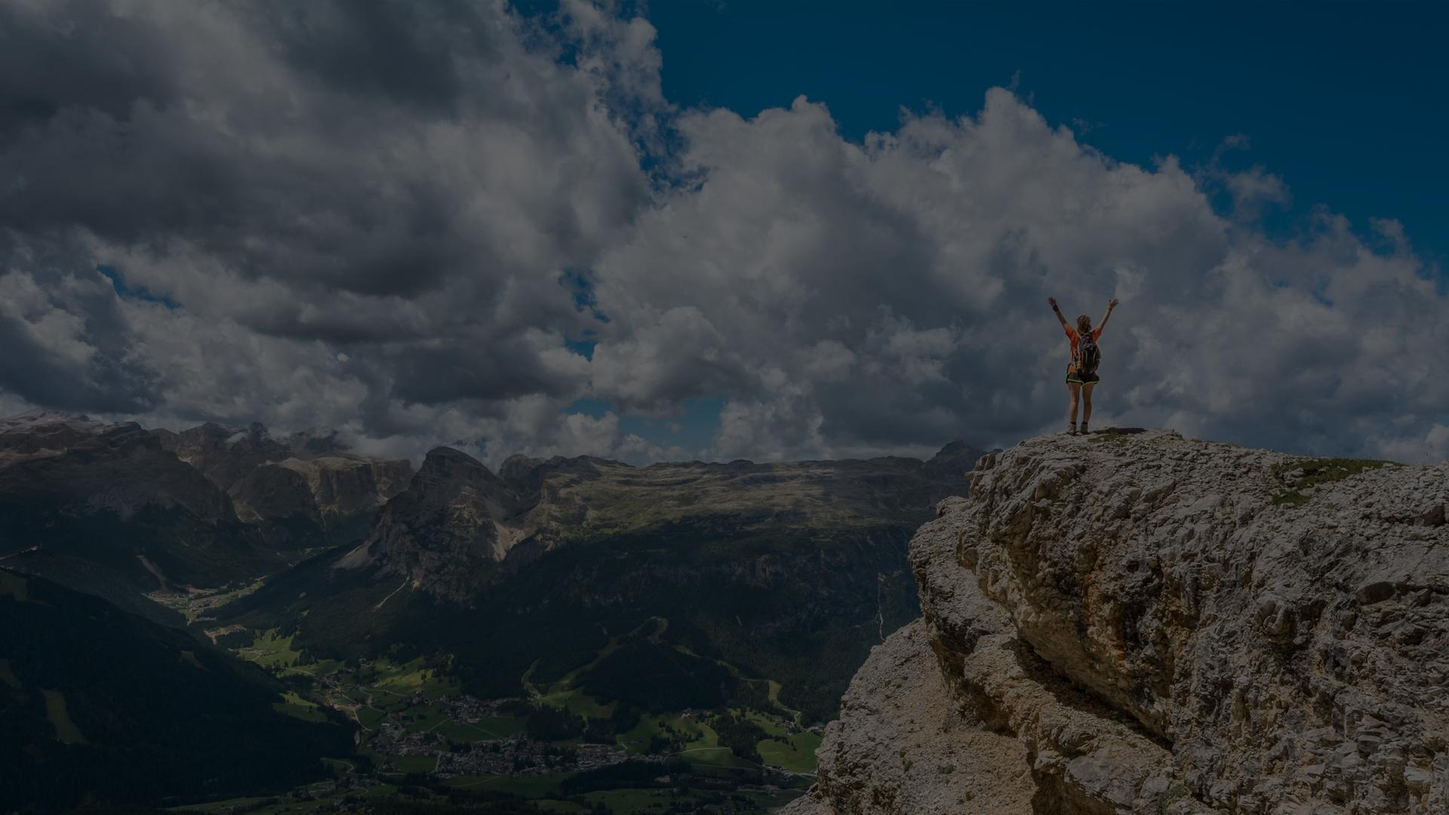
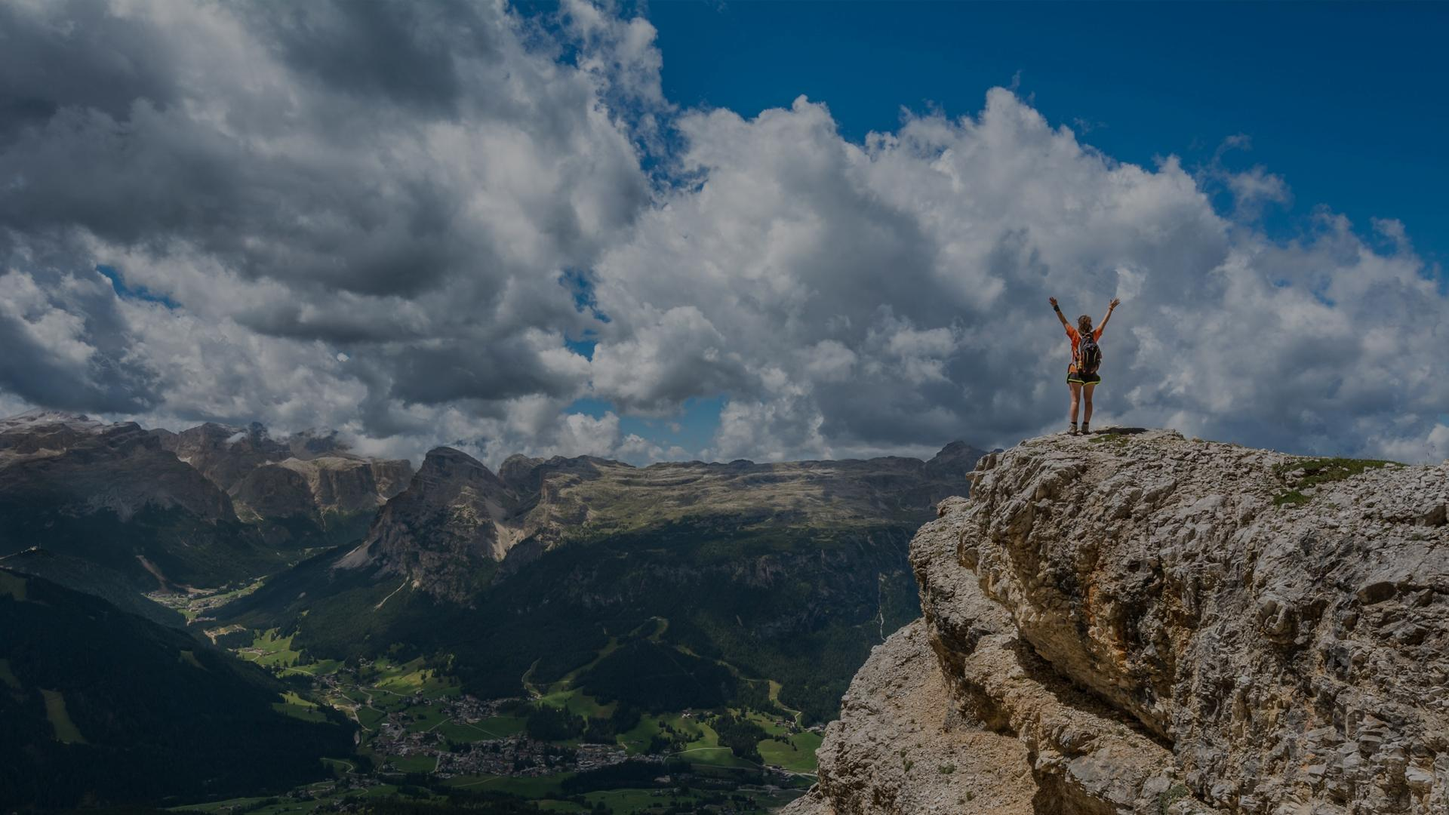
I deleted some necessary files and change header background file

diff --git a/css/seal.css b/css/seal.css
@@ -1,1 +1,1 @@
-@keyframes header__arrow-animation{0%{transform:translateY(0px)}50%{transform:translateY(10px)}100%{transform:translateY(0px)}}body{font-family:'Source Sans Pro', sans-serif;font-size:17px;letter-spacing:0.1em;color:#424242}.wrapper{overflow:hidden}s .row{margin-left:0;margin-right:0}.container-fluid{padding-left:0;padding-right:0;margin:0}html{scroll-behavior:smooth}a{color:#2d5294;text-decoration:none}a:hover{color:#134191;text-decoration:none}a:visited{color:#2d5294;text-decoration:none}.navbar{font-size:1.2em;text-transform:uppercase}.hamburger{padding:10px;cursor:pointer;background-color:transparent;border:0;margin:0;transition:all 0.5s ease-in-out}.hamburger--active{transform:translateX(-240px)}.hamburger__box{width:40px;height:24px;display:inline-block;position:relative;background-color:transparent}.hamburger__inner{width:100%;height:3px;background-color:#fff;position:absolute;left:0;top:50%;transform:translateY(-50%);transition:background-color .1s .1s ease-in-out}.hamburger__inner::before,.hamburger__inner::after{width:100%;height:3px;background-color:#fff;position:absolute;content:'';left:0;transition:transform .1s .1s ease-in-out}.hamburger__inner::before{top:-10px}.hamburger__inner::after{top:10px}.hamburger--active .hamburger__inner{background-color:transparent}.hamburger--active .hamburger__inner:before{transform:translateY(10px) rotate(45deg)}.hamburger--active .hamburger__inner:after{transform:translateY(-10px) rotate(-45deg)}main{overflow:hidden}.single-page .single-page-content{padding-top:100px}section{margin-bottom:50px;padding-bottom:50px}section .section-title{position:relative;width:100%;display:flex;justify-content:center;padding-top:50px;text-transform:uppercase;margin-bottom:100px}section .section-title h2{font-weight:700;font-size:2.1em}section .section-title--alternative{color:#fffffF}section .section-title::after{content:' ';position:absolute;background:#6ac04d;bottom:-10px;left:calc(50% - 75px);width:150px;height:4px;margin:auto}section:last-child{margin-bottom:0}.triangle-left-side{position:absolute;width:0;height:0;border-top:600px solid transparent;border-left:750px solid #eadcc9;border-bottom:600px solid transparent;left:-1000px;transition-duration:1500ms}.triangle-right-side{position:absolute;width:0;height:0;border-top:600px solid transparent;border-right:750px solid #eadcc9;border-bottom:600px solid transparent;top:50px;right:-1000px;transition-duration:1500ms}.traingle-left-visible{left:0}.traingle-right-visible{right:0}.pagination{font-weight:bold;margin-bottom:30px}.pagination__left{text-align:left}.pagination__right{text-align:right}@media (min-width: 320px){.posts-list{padding-top:25px}.post{margin:25px 0}.post .post__thumbnail img{max-width:100%;height:auto;border:1px solid grey}.post .post__title{margin-top:10px;font-weight:bold}.post__btn__more{font-weight:bold;text-transform:uppercase}.post-full{display:flex;flex-direction:column;margin-top:50px;min-height:500px}.btn--blue{color:#2d5294;border:2px solid #2d5294;background-color:none;text-decoration:none;padding:10px 30px;text-transform:uppercase;border-radius:2px;letter-spacing:0.15em;transition-duration:0.5s;font-weight:bold;font-size:1.2em}.btn--blue:hover{text-decoration:none;-webkit-transform:scale(1.1);-ms-transform:scale(1.1);transform:scale(1.1)}.btn--white{width:auto;border:1px solid #ffffff;border-radius:10px;color:#ffffff;background-color:rgba(255,255,255,0.1);padding:15px 30px;margin:20px 0;text-decoration:none;text-transform:uppercase;letter-spacing:.15em;transition-duration:0.5s}.btn--white:visited{color:#fff}.btn--white:hover{cursor:pointer;-webkit-transform:scale(1.1);-ms-transform:scale(1.1);transform:scale(1.1)}.btn--partner{width:100%;height:100%;border:none;color:#ffffff;background-color:#747474;font-size:1.2em;text-decoration:none;text-transform:uppercase;letter-spacing:.15em;transition-duration:500ms}.btn--partner:hover{font-size:1.3em}.header{position:relative;z-index:1;height:100vh;background-image:url("../img/seal-new-header.jpg");color:#fffffF}.header .header__nav{position:absolute;z-index:2;padding:5px 10px;display:flex;justify-content:space-between;width:100%;font-size:1.4em}.header .header__nav .header__nav__logo .header__nav__logo__image{max-width:100px;transition:all 0.5s ease-in-out}.header .header__nav .header__nav__logo .header__nav__logo__image--hidden{visibility:hidden}.header .header__nav .header__nav__items{display:flex;justify-content:center;align-items:center}.header .header__nav .header__nav__items .header__nav__items__mobile .header__nav__items__mobile__item{position:absolute;display:flex;justify-content:center;align-items:center;top:0;right:0;padding:25px 0;width:250px;min-height:100vh;background-color:yellowgreen;transform:translateX(250px);transition:all 0.5s ease-in-out}.header .header__nav .header__nav__items .header__nav__items__mobile .header__nav__items__mobile__item .menu{display:flex;flex-direction:column;justify-content:center;align-items:center;top:20px;list-style:none;padding:0}.header .header__nav .header__nav__items .header__nav__items__mobile .header__nav__items__mobile__item .menu .menu-item{width:75%;display:flex;justify-content:center;align-items:center;margin-bottom:10px}.header .header__nav .header__nav__items .header__nav__items__mobile .header__nav__items__mobile__item--active{transform:translateX(0)}.header .header__nav .header__nav__items .header__nav__items__desktop{display:none}.header .header__hero{position:relative;top:100px}.header .header__hero .header__hero__content .header__hero__content__title{font-weight:bold;font-size:1.6em;text-align:center}.header .header__hero .header__hero__content .header__hero__content__slogan{padding:0 10px;font-size:1.1em;text-align:center}.header .header__hero .header__hero__content .header__hero__content__btn-area{margin-top:30px;display:flex;justify-content:center;align-items:center}.header .header__hero .header__hero__content .header__hero__content__btn-area .header__hero__content__btn-area__btn{color:#fffffF;background:none;border:1px solid #fffffF;text-transform:uppercase;padding:10px 30px;letter-spacing:0.5em;transition-duration:0.3s}.header .header__hero .header__hero__content .header__hero__content__btn-area .header__hero__content__btn-area__btn:hover{transform:scale(1.1)}.header .header__hero .header__hero__content .header__hero__content__arrow{display:none;margin-top:40px}.header .header__hero .header__hero__content .header__hero__content__arrow img{max-width:50px;animation:header__arrow-animation 1s linear infinite}.header .header__social-icons{display:flex;justify-content:center;align-items:center;position:absolute;bottom:-50px;width:100%;opacity:0;transition-duration:0.5s}.header .header__social-icons .header__social-icons__icon{max-width:25px;margin-left:10px}.header .header__social-icons .header__social-icons__icon .header__social-icons__icon__image:hover{cursor:pointer;transform:scale(1.1)}.header-subpage{height:60vh;background-position:center}.header-subpage .header__hero .header__hero__content .header__hero__content__arrow{display:flex;justify-content:center;align-items:center}.about-us{position:relative}.about-us .about-us__logo{display:flex;justify-content:center;align-items:center}.about-us .about-us__logo .project-logo{max-width:100%;border:10px solid #424242;border-radius:50%;padding:20px;background-color:#ffffff}.about-us .about-us__short-info{display:flex;justify-content:center;align-items:center;flex-direction:column;height:100%}.about-us .disclaimer{margin-top:100px}.partners{position:relative;margin-bottom:0;background-color:#EEEEEE}.partners .partners__row{opacity:0}.partners .partners__row .partners__row__partner{position:relative;height:700px;overflow:hidden;display:flex;justify-content:center;align-items:center;justify-content:flex-start;min-height:600px;flex-direction:column;background-color:#ffffff;border:2px solid #747474;text-align:center;transition-duration:300ms;margin-bottom:25px}.partners .partners__row .partners__row__partner .partners__row__partner__name{text-transform:uppercase;font-weight:700}.partners .partners__row .partners__row__partner .partners__row__partner__description{padding:0 20px}.partners .partners__row .partners__row__partner .partners__row_partner__link-area{position:absolute;display:flex;justify-content:center;align-items:center;flex-direction:column;bottom:0;background-color:#6ac04d;width:100%;transition-duration:700ms;transform:translateY(300px)}.partners .partners__row .partners__row__partner .partners__row_partner__link-area .partners__row_partner__link-area_title{text-transform:uppercase;color:#ffffff;font-weight:bold;font-size:1.2em;letter-spacing:0.1em}.partners .partners__row .partners__row__partner .partners__row_partner__link-area .partners__row_partner__link-area__icons{display:flex;justify-content:center;align-items:center;justify-content:space-around;width:80%;padding:15px 0}.partners .partners__row .partners__row__partner .partners__row_partner__link-area .partners__row_partner__link-area__icons .partners__row_partner__link-area__icons__icon{max-width:15%;transition:all 400ms ease-in-out;cursor:pointer}.partners .partners__row .partners__row__partner .partners__row_partner__link-area .partners__row_partner__link-area__icons .partners__row_partner__link-area__icons__icon:hover{transform:scale(1.1)}.partners .partners__row .partners__row__partner .partners__row_partner__link-area::before{content:'';position:absolute;background-color:#6ac04d;top:-50px;left:0;right:0;height:51px;clip-path:polygon(50% 50%, 0 100%, 100% 100%)}.partners .partners__row .partners__row__partner:hover .partners__row_partner__link-area{transform:translateY(0)}.partners .partners__row__2{opacity:0}.partners .partners__row__partner:hover{box-shadow:1px 1px 10px #424242}.fp-galleries{background-image:url(../img/fp_gallery_bg2.jpg);background-size:cover;background-attachment:fixed;background-position:50% 50%;min-height:500px}.fp-galleries h1{color:#ffffff}.fp-galleries .see-more-galleries{display:flex;justify-content:center;align-items:center}.fp-galleries .fp-galleries__content__items{display:flex;justify-content:center;align-items:center;overflow:hidden;width:275px;height:275px;padding:0;margin-bottom:50px}.fp-galleries .fp-galleries__content__items__item{width:275px;height:275px;transition:all 0.5s ease-in-out}.fp-galleries .fp-galleries__content__items__item .fp-galleries__contet__items__item__image{width:275px;height:275px}.fp-galleries .fp-galleries__content__items__item .fp-galleries__content__items__item__desc{display:flex;justify-content:center;align-items:center;flex-direction:column;width:275px;height:275px;color:#ffffff;background-color:#424242}.fp-galleries .fp-galleries__content__items__item .fp-galleries__content__items__item__desc hr{border:1px solid #ffffff;width:75%}.fp-galleries .fp-galleries__content__items__item .fp-galleries__content__items__item__desc .fp-galleries__content__items__item__desc__title,.fp-galleries .fp-galleries__content__items__item .fp-galleries__content__items__item__desc .fp-galleries__content__items__item__desc__link{text-transform:uppercase;font-size:1.1em;font-weight:bold;letter-spacing:0.1em}.fp-galleries .fp-galleries__content__items__item .fp-galleries__content__items__item__desc .fp-galleries__content__items__item__desc__short-info{text-align:center;padding:0 5px}.fp-galleries .fp-galleries__content__items__item:hover{transform:translateY(-100%);cursor:pointer}.site-footer{background-color:#2e2e2e;background-image:url("../img/footer_bg.png");background-repeat:repeat;color:#fff}.site-footer a{color:#fff}.site-footer a:hover{text-decoration:underline}.site-footer .site__footer__content{padding-top:50px;display:flex;justify-content:center;align-items:flex-start}.site-footer .site__footer__content .site-footer__content_item_title{position:relative;font-weight:bold;font-size:1.2em;margin-bottom:10px}.site-footer .site__footer__content .site-footer__content_item_desc ul{list-style:none;padding-left:0}.site-footer .site__footer__content .site-footer__content_item_desc .site-footer__logo{max-width:250px}.site-footer .site__footer__content .site-footer__content_item_desc .site-footer__icon{max-width:20px}.site-footer .site-footer__rights{display:flex;justify-content:center;align-items:center;padding:20px}}@media (max-height: 320px){.header .header__hero{font-size:1em}.header .header__hero .header__hero__content{position:relative;top:-40px}.header .header__hero .header__hero__content .header__hero__content__btn-area{margin-top:10px}.header .header__hero .header__hero__content .header__hero__content__arrow{visibility:hidden}}@media (min-width: 360px){.header .header__hero .header__hero__content .header__hero__content__arrow{margin-top:20px;display:flex;justify-content:center}}@media (min-width: 576px){.header .header__nav{padding:10px 10px}.header .header__hero{top:70px}.main-menu .main-menu__items--showed{margin-top:0px}.about-us .about-us__logo .project-logo{max-width:60%}.fp-galleries .fp-galleries__content .fp-galleries__content__items{width:300px;height:300px}.fp-galleries .fp-galleries__content .fp-galleries__content__items__item{width:300px;height:300px}.fp-galleries .fp-galleries__content .fp-galleries__content__items__item .fp-galleries__contet__items__item__image{width:300px;height:300px}.fp-galleries .fp-galleries__content .fp-galleries__content__items__item .fp-galleries__content__items__item__desc{width:300px;height:300px}}@media (min-width: 768px){.header .header__nav{padding:30px 20px}.header .header__hero{top:35%;padding:0 40px}.header .header__hero .header__hero__content .header__hero__content__btn-area .header__hero__content__btn-area__btn{border-width:2px}.header .header__hero .header__hero__content .header__hero__content__arrow{display:flex;justify-content:center;align-items:center}.about-us__content .about-us__logo .project-logo{max-width:100%}.about-us__content .about-us__short-info{justify-content:space-around}.fp-galleries .fp-galleries__content .fp-galleries__content__items{width:275px;height:275px}.fp-galleries .fp-galleries__content .fp-galleries__content__items__item{width:275px;height:275px}.fp-galleries .fp-galleries__content .fp-galleries__content__items__item .fp-galleries__contet__items__item__image{width:275px;height:275px}.fp-galleries .fp-galleries__content .fp-galleries__content__items__item .fp-galleries__content__items__item__desc{width:275px;height:275px}}@media (min-width: 992px){.header{background-position:70% 0%}.header .header__hero{display:flex;justify-content:flex-start;width:530px;left:70px;padding:0}.header .header__hero .header__hero__content .header__hero__content__title,.header .header__hero .header__hero__content .header__hero__content__slogan{padding:0;text-align:left}.header .header__social-icons{justify-content:flex-start;max-width:33%;left:20px;bottom:20px}.post .post__content .post__title{margin-top:0}.fp-galleries .fp-galleries__content .fp-galleries__content__gallery{max-width:250px}}@media (min-width: 1024px){.header{background-size:cover}}@media (min-width: 1200px){.header .header__nav .header__nav__logo .header__nav__logo__image{max-width:150px;transition:all 0.5s ease-in-out}.header .header__nav .header__nav__items .header__nav__items__mobile{display:none}.header .header__nav .header__nav__items .header__nav__items__desktop{display:block}.header .header__nav .header__nav__items .header__nav__items__desktop .menu-main-menu-en-container .menu{display:flex;justify-content:flex-end;align-items:center;list-style:none;margin-bottom:0}.header .header__nav .header__nav__items .header__nav__items__desktop .menu-main-menu-en-container .menu .menu-item>a{text-transform:uppercase;margin-right:20px;color:white}.header .header__nav .header__nav__items .header__nav__items__desktop .menu-main-menu-en-container .menu .pll-parent-menu-item .sub-menu{display:none}.header .header__hero{left:100px;width:650px}.header .header__hero .header__hero__content{max-width:100%}.header .header__hero .header__hero__content .header__hero__content__title{font-size:2em}.header .header__hero .header__hero__content .header__social-icons{bottom:25px}.main-menu{flex-direction:row;justify-content:space-between;height:initial;z-index:100}.main-menu .main-menu__brand{width:unset;padding-left:20px}.main-menu .hamburger{display:none}.main-menu .main-menu__items{display:flex;margin-top:0;opacity:1}.main-menu .main-menu__items .menu{flex-direction:row}.main-menu .main-menu__items .menu .pll-parent-menu-item{position:relative;display:block}.main-menu .main-menu__items .menu .pll-parent-menu-item .sub-menu{display:none}.main-menu .main-menu__items .menu .pll-parent-menu-item .sub-menu--active-desktop{position:absolute;display:block;padding-left:0}.header-subpage{background-position:10%}.about-us .about-us__content .about-us__logo .project-logo{max-width:80%}.about-us .about-us__content .about-us__short-info{justify-content:center}}@media (min-width: 1600px){body{font-size:18px}.header .header__hero{left:175px;width:700px}}
+@keyframes header__arrow-animation{0%{transform:translateY(0px)}50%{transform:translateY(10px)}100%{transform:translateY(0px)}}body{font-family:'Source Sans Pro', sans-serif;font-size:17px;letter-spacing:0.1em;color:#424242}.wrapper{overflow:hidden}s .row{margin-left:0;margin-right:0}.container-fluid{padding-left:0;padding-right:0;margin:0}html{scroll-behavior:smooth}a{color:#2d5294;text-decoration:none}a:hover{color:#134191;text-decoration:none}a:visited{color:#2d5294;text-decoration:none}.navbar{font-size:1.2em;text-transform:uppercase}.hamburger{padding:10px;cursor:pointer;background-color:transparent;border:0;margin:0;transition:all 0.5s ease-in-out}.hamburger--active{transform:translateX(-240px)}.hamburger__box{width:40px;height:24px;display:inline-block;position:relative;background-color:transparent}.hamburger__inner{width:100%;height:3px;background-color:#fff;position:absolute;left:0;top:50%;transform:translateY(-50%);transition:background-color .1s .1s ease-in-out}.hamburger__inner::before,.hamburger__inner::after{width:100%;height:3px;background-color:#fff;position:absolute;content:'';left:0;transition:transform .1s .1s ease-in-out}.hamburger__inner::before{top:-10px}.hamburger__inner::after{top:10px}.hamburger--active .hamburger__inner{background-color:transparent}.hamburger--active .hamburger__inner:before{transform:translateY(10px) rotate(45deg)}.hamburger--active .hamburger__inner:after{transform:translateY(-10px) rotate(-45deg)}main{overflow:hidden}.single-page .single-page-content{padding-top:100px}section{margin-bottom:50px;padding-bottom:50px}section .section-title{position:relative;width:100%;display:flex;justify-content:center;padding-top:50px;text-transform:uppercase;margin-bottom:100px}section .section-title h2{font-weight:700;font-size:2.1em}section .section-title--alternative{color:#fffffF}section .section-title::after{content:' ';position:absolute;background:#6ac04d;bottom:-10px;left:calc(50% - 75px);width:150px;height:4px;margin:auto}section:last-child{margin-bottom:0}.triangle-left-side{position:absolute;width:0;height:0;border-top:600px solid transparent;border-left:750px solid #eadcc9;border-bottom:600px solid transparent;left:-1000px;transition-duration:1500ms}.triangle-right-side{position:absolute;width:0;height:0;border-top:600px solid transparent;border-right:750px solid #eadcc9;border-bottom:600px solid transparent;top:50px;right:-1000px;transition-duration:1500ms}.traingle-left-visible{left:0}.traingle-right-visible{right:0}.pagination{font-weight:bold;margin-bottom:30px}.pagination__left{text-align:left}.pagination__right{text-align:right}@media (min-width: 320px){.posts-list{padding-top:25px}.post{margin:25px 0}.post .post__thumbnail img{max-width:100%;height:auto;border:1px solid grey}.post .post__title{margin-top:10px;font-weight:bold}.post__btn__more{font-weight:bold;text-transform:uppercase}.post-full{display:flex;flex-direction:column;margin-top:50px;min-height:500px}.btn--blue{color:#2d5294;border:2px solid #2d5294;background-color:none;text-decoration:none;padding:10px 30px;text-transform:uppercase;border-radius:2px;letter-spacing:0.15em;transition-duration:0.5s;font-weight:bold;font-size:1.2em}.btn--blue:hover{text-decoration:none;-webkit-transform:scale(1.1);-ms-transform:scale(1.1);transform:scale(1.1)}.btn--white{width:auto;border:1px solid #ffffff;border-radius:10px;color:#ffffff;background-color:rgba(255,255,255,0.1);padding:15px 30px;margin:20px 0;text-decoration:none;text-transform:uppercase;letter-spacing:.15em;transition-duration:0.5s}.btn--white:visited{color:#fff}.btn--white:hover{cursor:pointer;-webkit-transform:scale(1.1);-ms-transform:scale(1.1);transform:scale(1.1)}.btn--partner{width:100%;height:100%;border:none;color:#ffffff;background-color:#747474;font-size:1.2em;text-decoration:none;text-transform:uppercase;letter-spacing:.15em;transition-duration:500ms}.btn--partner:hover{font-size:1.3em}.header{position:relative;z-index:1;height:100vh;background-image:url("../img/seal-new-header2.jpg");color:#fffffF}.header .header__nav{position:absolute;z-index:2;padding:5px 10px;display:flex;justify-content:space-between;width:100%;font-size:1.4em}.header .header__nav .header__nav__logo .header__nav__logo__image{max-width:100px;transition:all 0.5s ease-in-out}.header .header__nav .header__nav__logo .header__nav__logo__image--hidden{visibility:hidden}.header .header__nav .header__nav__items{display:flex;justify-content:center;align-items:center}.header .header__nav .header__nav__items .header__nav__items__mobile .header__nav__items__mobile__item{position:absolute;display:flex;justify-content:center;align-items:center;top:0;right:0;padding:25px 0;width:250px;min-height:100vh;background-color:yellowgreen;transform:translateX(250px);transition:all 0.5s ease-in-out}.header .header__nav .header__nav__items .header__nav__items__mobile .header__nav__items__mobile__item .menu{display:flex;flex-direction:column;justify-content:center;align-items:center;top:20px;list-style:none;padding:0}.header .header__nav .header__nav__items .header__nav__items__mobile .header__nav__items__mobile__item .menu .menu-item{width:75%;display:flex;justify-content:center;align-items:center;margin-bottom:10px}.header .header__nav .header__nav__items .header__nav__items__mobile .header__nav__items__mobile__item--active{transform:translateX(0)}.header .header__nav .header__nav__items .header__nav__items__desktop{display:none}.header .header__hero{position:relative;top:100px}.header .header__hero .header__hero__content .header__hero__content__title{font-weight:bold;font-size:1.6em;text-align:center}.header .header__hero .header__hero__content .header__hero__content__slogan{padding:0 10px;font-size:1.1em;text-align:center}.header .header__hero .header__hero__content .header__hero__content__btn-area{margin-top:30px;display:flex;justify-content:center;align-items:center}.header .header__hero .header__hero__content .header__hero__content__btn-area .header__hero__content__btn-area__btn{color:#fffffF;background:none;border:1px solid #fffffF;text-transform:uppercase;padding:10px 30px;letter-spacing:0.5em;transition-duration:0.3s}.header .header__hero .header__hero__content .header__hero__content__btn-area .header__hero__content__btn-area__btn:hover{transform:scale(1.1)}.header .header__hero .header__hero__content .header__hero__content__arrow{display:none;margin-top:40px}.header .header__hero .header__hero__content .header__hero__content__arrow img{max-width:50px;animation:header__arrow-animation 1s linear infinite}.header .header__social-icons{display:flex;justify-content:center;align-items:center;position:absolute;bottom:-50px;width:100%;opacity:0;transition-duration:0.5s}.header .header__social-icons .header__social-icons__icon{max-width:25px;margin-left:10px}.header .header__social-icons .header__social-icons__icon .header__social-icons__icon__image:hover{cursor:pointer;transform:scale(1.1)}.header-subpage{height:60vh;background-position:center}.header-subpage .header__hero .header__hero__content .header__hero__content__arrow{display:flex;justify-content:center;align-items:center}.about-us{position:relative}.about-us .about-us__logo{display:flex;justify-content:center;align-items:center}.about-us .about-us__logo .project-logo{max-width:100%;border:10px solid #424242;border-radius:50%;padding:20px;background-color:#ffffff}.about-us .about-us__short-info{display:flex;justify-content:center;align-items:center;flex-direction:column;height:100%}.about-us .disclaimer{margin-top:100px}.partners{position:relative;margin-bottom:0;background-color:#EEEEEE}.partners .partners__row{opacity:0}.partners .partners__row .partners__row__partner{position:relative;height:700px;overflow:hidden;display:flex;justify-content:center;align-items:center;justify-content:flex-start;min-height:600px;flex-direction:column;background-color:#ffffff;border:2px solid #747474;text-align:center;transition-duration:300ms;margin-bottom:25px}.partners .partners__row .partners__row__partner .partners__row__partner__name{text-transform:uppercase;font-weight:700}.partners .partners__row .partners__row__partner .partners__row__partner__description{padding:0 20px}.partners .partners__row .partners__row__partner .partners__row_partner__link-area{position:absolute;display:flex;justify-content:center;align-items:center;flex-direction:column;bottom:0;background-color:#6ac04d;width:100%;transition-duration:700ms;transform:translateY(300px)}.partners .partners__row .partners__row__partner .partners__row_partner__link-area .partners__row_partner__link-area_title{text-transform:uppercase;color:#ffffff;font-weight:bold;font-size:1.2em;letter-spacing:0.1em}.partners .partners__row .partners__row__partner .partners__row_partner__link-area .partners__row_partner__link-area__icons{display:flex;justify-content:center;align-items:center;justify-content:space-around;width:80%;padding:15px 0}.partners .partners__row .partners__row__partner .partners__row_partner__link-area .partners__row_partner__link-area__icons .partners__row_partner__link-area__icons__icon{max-width:15%;transition:all 400ms ease-in-out;cursor:pointer}.partners .partners__row .partners__row__partner .partners__row_partner__link-area .partners__row_partner__link-area__icons .partners__row_partner__link-area__icons__icon:hover{transform:scale(1.1)}.partners .partners__row .partners__row__partner .partners__row_partner__link-area::before{content:'';position:absolute;background-color:#6ac04d;top:-50px;left:0;right:0;height:51px;clip-path:polygon(50% 50%, 0 100%, 100% 100%)}.partners .partners__row .partners__row__partner:hover .partners__row_partner__link-area{transform:translateY(0)}.partners .partners__row__2{opacity:0}.partners .partners__row__partner:hover{box-shadow:1px 1px 10px #424242}.fp-galleries{background-image:url(../img/fp_gallery_bg2.jpg);background-size:cover;background-attachment:fixed;background-position:50% 50%;min-height:500px}.fp-galleries h1{color:#ffffff}.fp-galleries .see-more-galleries{display:flex;justify-content:center;align-items:center}.fp-galleries .fp-galleries__content__items{display:flex;justify-content:center;align-items:center;overflow:hidden;width:275px;height:275px;padding:0;margin-bottom:50px}.fp-galleries .fp-galleries__content__items__item{width:275px;height:275px;transition:all 0.5s ease-in-out}.fp-galleries .fp-galleries__content__items__item .fp-galleries__contet__items__item__image{width:275px;height:275px}.fp-galleries .fp-galleries__content__items__item .fp-galleries__content__items__item__desc{display:flex;justify-content:center;align-items:center;flex-direction:column;width:275px;height:275px;color:#ffffff;background-color:#424242}.fp-galleries .fp-galleries__content__items__item .fp-galleries__content__items__item__desc hr{border:1px solid #ffffff;width:75%}.fp-galleries .fp-galleries__content__items__item .fp-galleries__content__items__item__desc .fp-galleries__content__items__item__desc__title,.fp-galleries .fp-galleries__content__items__item .fp-galleries__content__items__item__desc .fp-galleries__content__items__item__desc__link{text-transform:uppercase;font-size:1.1em;font-weight:bold;letter-spacing:0.1em}.fp-galleries .fp-galleries__content__items__item .fp-galleries__content__items__item__desc .fp-galleries__content__items__item__desc__short-info{text-align:center;padding:0 5px}.fp-galleries .fp-galleries__content__items__item:hover{transform:translateY(-100%);cursor:pointer}.site-footer{background-color:#2e2e2e;background-image:url("../img/footer_bg.png");background-repeat:repeat;color:#fff}.site-footer a{color:#fff}.site-footer a:hover{text-decoration:underline}.site-footer .site__footer__content{padding-top:50px;display:flex;justify-content:center;align-items:flex-start}.site-footer .site__footer__content .site-footer__content_item_title{position:relative;font-weight:bold;font-size:1.2em;margin-bottom:10px}.site-footer .site__footer__content .site-footer__content_item_desc ul{list-style:none;padding-left:0}.site-footer .site__footer__content .site-footer__content_item_desc .site-footer__logo{max-width:250px}.site-footer .site__footer__content .site-footer__content_item_desc .site-footer__icon{max-width:20px}.site-footer .site-footer__rights{display:flex;justify-content:center;align-items:center;padding:20px}}@media (max-height: 320px){.header .header__hero{font-size:1em}.header .header__hero .header__hero__content{position:relative;top:-40px}.header .header__hero .header__hero__content .header__hero__content__btn-area{margin-top:10px}.header .header__hero .header__hero__content .header__hero__content__arrow{visibility:hidden}}@media (min-width: 360px){.header .header__hero .header__hero__content .header__hero__content__arrow{margin-top:20px;display:flex;justify-content:center}}@media (min-width: 576px){.header .header__nav{padding:10px 10px}.header .header__hero{top:70px}.main-menu .main-menu__items--showed{margin-top:0px}.about-us .about-us__logo .project-logo{max-width:60%}.fp-galleries .fp-galleries__content .fp-galleries__content__items{width:300px;height:300px}.fp-galleries .fp-galleries__content .fp-galleries__content__items__item{width:300px;height:300px}.fp-galleries .fp-galleries__content .fp-galleries__content__items__item .fp-galleries__contet__items__item__image{width:300px;height:300px}.fp-galleries .fp-galleries__content .fp-galleries__content__items__item .fp-galleries__content__items__item__desc{width:300px;height:300px}}@media (min-width: 768px){.header .header__nav{padding:30px 20px}.header .header__hero{top:35%;padding:0 40px}.header .header__hero .header__hero__content .header__hero__content__btn-area .header__hero__content__btn-area__btn{border-width:2px}.header .header__hero .header__hero__content .header__hero__content__arrow{display:flex;justify-content:center;align-items:center}.about-us__content .about-us__logo .project-logo{max-width:100%}.about-us__content .about-us__short-info{justify-content:space-around}.fp-galleries .fp-galleries__content .fp-galleries__content__items{width:275px;height:275px}.fp-galleries .fp-galleries__content .fp-galleries__content__items__item{width:275px;height:275px}.fp-galleries .fp-galleries__content .fp-galleries__content__items__item .fp-galleries__contet__items__item__image{width:275px;height:275px}.fp-galleries .fp-galleries__content .fp-galleries__content__items__item .fp-galleries__content__items__item__desc{width:275px;height:275px}}@media (min-width: 992px){.header{background-position:70% 0%}.header .header__hero{display:flex;justify-content:flex-start;width:530px;left:70px;padding:0}.header .header__hero .header__hero__content .header__hero__content__title,.header .header__hero .header__hero__content .header__hero__content__slogan{padding:0;text-align:left}.header .header__social-icons{justify-content:flex-start;max-width:33%;left:20px;bottom:20px}.post .post__content .post__title{margin-top:0}.fp-galleries .fp-galleries__content .fp-galleries__content__gallery{max-width:250px}}@media (min-width: 1024px){.header{background-size:cover}}@media (min-width: 1200px){.header .header__nav .header__nav__logo .header__nav__logo__image{max-width:150px;transition:all 0.5s ease-in-out}.header .header__nav .header__nav__items .header__nav__items__mobile{display:none}.header .header__nav .header__nav__items .header__nav__items__desktop{display:block}.header .header__nav .header__nav__items .header__nav__items__desktop .menu-main-menu-en-container .menu{display:flex;justify-content:flex-end;align-items:center;list-style:none;margin-bottom:0}.header .header__nav .header__nav__items .header__nav__items__desktop .menu-main-menu-en-container .menu .menu-item>a{text-transform:uppercase;margin-right:20px;color:white}.header .header__nav .header__nav__items .header__nav__items__desktop .menu-main-menu-en-container .menu .pll-parent-menu-item .sub-menu{display:none}.header .header__hero{left:100px;width:650px}.header .header__hero .header__hero__content{max-width:100%}.header .header__hero .header__hero__content .header__hero__content__title{font-size:2em}.header .header__hero .header__hero__content .header__social-icons{bottom:25px}.main-menu{flex-direction:row;justify-content:space-between;height:initial;z-index:100}.main-menu .main-menu__brand{width:unset;padding-left:20px}.main-menu .hamburger{display:none}.main-menu .main-menu__items{display:flex;margin-top:0;opacity:1}.main-menu .main-menu__items .menu{flex-direction:row}.main-menu .main-menu__items .menu .pll-parent-menu-item{position:relative;display:block}.main-menu .main-menu__items .menu .pll-parent-menu-item .sub-menu{display:none}.main-menu .main-menu__items .menu .pll-parent-menu-item .sub-menu--active-desktop{position:absolute;display:block;padding-left:0}.header-subpage{background-position:10%}.about-us .about-us__content .about-us__logo .project-logo{max-width:80%}.about-us .about-us__content .about-us__short-info{justify-content:center}}@media (min-width: 1600px){body{font-size:18px}.header .header__hero{left:175px;width:700px}}

diff --git a/css/seal.scss b/css/seal.scss
@@ -302,7 +302,7 @@ section:last-child{
         position: relative;
         z-index: 1;
         height: 100vh;
-        background-image: url("../img/seal-new-header.jpg");
+        background-image: url("../img/seal-new-header2.jpg");
         color: #fffffF;
         .header__nav{
             position: absolute;
